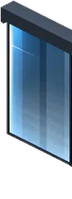
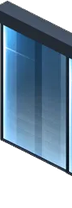
Vidraça da fachada: corta margem morta do lado esquerdo da arte
Douglas testou ao vivo lado a lado: "as imagens em si, tao distantes
umas das outras... olhe pro conteudo nao pras bordas". As peças
(bounding box) já encostavam certinho (aresta a aresta), mas a arte
original tinha uma margem transparente de verdade do lado esquerdo (o
canto do perfil/laje, com profundidade 3D, projeta um pouco além do
plano do vidro só nesse lado -- o direito já saía coladinho) -- daí o
vidro (o que o olho segue) ficava uns pixels "pra dentro", parecendo
afastado mesmo grudado.

Recortei essa margem (~8px na arte original) e regenerei
facade-glass-tile.png/-single.png a partir do recorte mais justo --
tamanho novo 144x208 (era 144x199). FACADE_GLASS_TILE_HEIGHT_PX/
FACADE_GLASS_SINGLE_TILE_HEIGHT_PX atualizados pro tamanho de verdade
do PNG novo. Placeholders da acesa (-lit.png) regenerados iguais, só
até o Douglas mandar a arte de verdade.

Claude-Session: https://claude.ai/code/session_018xm3GX2bQC8Nuwuw2rsoPK

diff --git a/game/wall.ts b/game/wall.ts
@@ -309,9 +309,22 @@ const FACADE_GLASS_ENTRY: WallCatalogEntry = {
  * createFacadeGlassSprite em MainScene.ts que consome o pareamento).
  * Sobra ímpar (fileira de tamanho ímpar, ou quina) cai no fallback de 1
  * vidraça só -- facade-glass-tile-single.png, metade exata da arte
- * larga (recorte, não redimensionado, então sem distorcer o ângulo). */
+ * larga (recorte, não redimensionado, então sem distorcer o ângulo).
+ *
+ * ACHADO 2 (Douglas testou ao vivo 2 peças lado a lado: "as imagens em
+ * si, tao distantes umas das outras... olhe pro conteudo nao pras
+ * bordas") -- a arte original tinha uma margem transparente de verdade
+ * do lado esquerdo (o canto do perfil/laje, que tem profundidade 3D,
+ * projeta um pouquinho além do plano do vidro nesse lado só -- o lado
+ * direito já saía coladinho). Aresta a aresta (bounding box) as peças
+ * ENCOSTAVAM certinho, mas o vidro (o conteúdo que o olho segue) ficava
+ * uns pixels "pra dentro" de cada peça -- daí a sensação de afastado
+ * mesmo com as peças grudadas. Cortei essa margem morta (a arte já vem
+ * com esse recorte pronto agora), então a largura/altura aqui são só o
+ * tamanho de verdade do PNG já cortado -- não precisa mexer em mais
+ * nada além de gerar a arte certa se isso mudar de novo. */
 export const FACADE_GLASS_TILE_WIDTH_PX = 144;
-export const FACADE_GLASS_TILE_HEIGHT_PX = 199;
+export const FACADE_GLASS_TILE_HEIGHT_PX = 208;
 /** Largura/altura do fallback de 1 vidraça só (facade-glass-tile-single.png)
  * -- ver comentário grande acima. Também usado pelo caminho genérico
  * addWallSprite (MainScene.ts, chamado por refreshWallNeighbors/
@@ -323,7 +336,7 @@ export const FACADE_GLASS_TILE_HEIGHT_PX = 199;
  * (syncFacadeGlassWalls) reconstrói a fachada inteira do zero,
  * reparando o pareamento certo de novo. */
 export const FACADE_GLASS_SINGLE_TILE_WIDTH_PX = 72;
-export const FACADE_GLASS_SINGLE_TILE_HEIGHT_PX = 199;
+export const FACADE_GLASS_SINGLE_TILE_HEIGHT_PX = 208;
 
 export const WALL_CATALOG: WallCatalogEntry[] = [...GENERATED_WALL_CATALOG, FACADE_GLASS_ENTRY];
 
